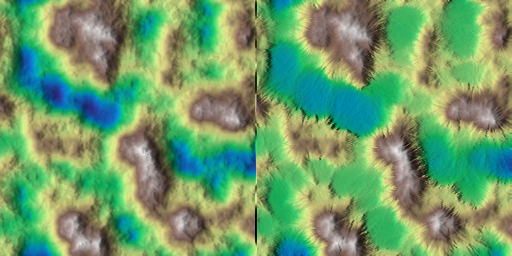
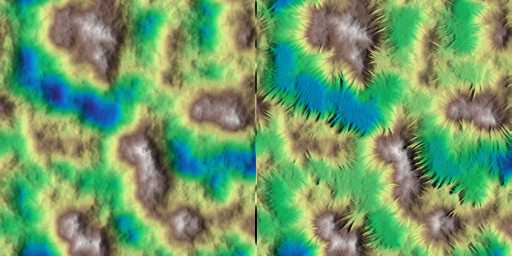
Swithc back to bilinear interpolation for hydrualic particle erosion

diff --git a/include/highmap/array.hpp b/include/highmap/array.hpp
@@ -11,6 +11,7 @@
 #pragma once
 
 #include <algorithm>
+#include <cmath>
 #include <iomanip>
 #include <iostream>
 #include <numeric>
@@ -226,6 +227,54 @@ public:
   }
 
   /**
+   * @brief Distribute a value 'amount' around the four cells (i, j), (i + 1,
+   * j), (i, j + 1), (i + 1, j + 1) by "reversing" the bilinear interpolation.
+   *
+   * @param i Index.
+   * @param j Index.
+   * @param u 'u' interpolation parameter, expected to be in [0, 1[.
+   * @param v 'v' interpolation parameter, expected to be in [0, 1[.
+   * @param amount Amount to be deposited.
+   */
+  inline void depose_amount_bilinear_at(int   i,
+                                        int   j,
+                                        float u,
+                                        float v,
+                                        float amount)
+  {
+    (*this)(i, j) += amount * (1 - u) * (1 - v);
+    (*this)(i + 1, j) += amount * u * (1 - v);
+    (*this)(i, j + 1) += amount * (1 - u) * v;
+    (*this)(i + 1, j + 1) += amount * u * v;
+  }
+
+  inline void depose_amount_kernel_bilinear_at(int   i,
+                                               int   j,
+                                               float u,
+                                               float v,
+                                               int   ir,
+                                               float amount)
+  {
+    Array kernel = Array({2 * ir + 1, 2 * ir + 1});
+
+    // compute kernel first
+    for (int p = -ir; p < ir + 1; p++)
+    {
+      for (int q = -ir; q < ir + 1; q++)
+      {
+        float x = (float)p - u;
+        float y = (float)q - v;
+        float r = std::max(0.f, 1.f - std::hypot(x, y));
+        kernel(p + ir, q + ir) = r;
+      }
+    }
+    kernel.normalize();
+
+    // perform deposition
+    this->depose_amount_kernel_at(i, j, kernel, amount);
+  }
+
+  /**
    * @brief Distribute a value 'amount' around the cell (i, j) using a
    * a 1D deposition kernel (applied to both direction).
    *
@@ -234,7 +283,7 @@ public:
    * @param kernel Deposition kernel (1D), must have an odd number of elements.
    * @param amount Amount to be deposited.
    */
-  inline void depose_amount_kernel(int i, int j, Array &kernel, float amount)
+  inline void depose_amount_kernel_at(int i, int j, Array &kernel, float amount)
   {
     const int ir = (kernel.shape[0] - 1) / 2;
     const int jr = (kernel.shape[1] - 1) / 2;
@@ -292,8 +341,8 @@ public:
    *
    * @param i Index, expected to be in [1, shape[0] - 2].
    * @param j Index, expected to be in [1, shape[1] - 2].
-   * @param x 'x' coordinate, expected to be in [i, i + 1].
-   * @param y 'y' coordinate, expected to be in [j, j + 1].
+   * @param u 'u' interpolation parameter, expected to be in [0, 1[.
+   * @param v 'v' interpolation parameter, expected to be in [0, 1[.
    * @return float
    */
   inline float get_gradient_x_bilinear_at(int i, int j, float u, float v)
@@ -319,8 +368,8 @@ public:
    *
    * @param i Index, expected to be in [1, shape[0] - 2].
    * @param j Index, expected to be in [1, shape[1] - 2].
-   * @param x 'x' coordinate, expected to be in [i, i + 1].
-   * @param y 'y' coordinate, expected to be in [j, j + 1].
+   * @param u 'u' interpolation parameter, expected to be in [0, 1[.
+   * @param v 'v' interpolation parameter, expected to be in [0, 1[.
    * @return float
    */
   inline float get_gradient_y_bilinear_at(int i, int j, float u, float v)
@@ -346,8 +395,8 @@ public:
    *
    * @param i Index, expected to be in [0, shape[0] - 2].
    * @param j Index, expected to be in [0, shape[1] - 2].
-   * @param x 'x' coordinate, expected to be in [i, i + 1].
-   * @param y 'y' coordinate, expected to be in [j, j + 1].
+   * @param u 'u' interpolation parameter, expected to be in [0, 1[.
+   * @param v 'v' interpolation parameter, expected to be in [0, 1[.
    * @return float
    */
   inline float get_value_bilinear_at(int i, int j, float u, float v)

diff --git a/src/erosion/hydraulic_particle.cpp b/src/erosion/hydraulic_particle.cpp
@@ -72,19 +72,22 @@ void hydraulic_particle(Array &z,
 
     float volume = VOLUME_INIT * moisture_map((int)x, (int)y);
 
-    int ix = (int)x;
-    int jy = (int)y;
+    int i_next = (int)x;
+    int j_next = (int)y;
 
     while (volume > VOLUME_MIN)
     {
-      int i = ix;
-      int j = jy;
+      int   i = i_next;
+      int   j = j_next;
+      float u = x - (float)i_next;
+      float v = y - (float)j_next;
+      float z_old = z.get_value_bilinear_at(i, j, u, v);
 
       // surface normal \nabla z = (-dz/dx, -dz/dy, 1), not normalized
       // since its norm is already very close to one, assuming 'z'
       // scales with unity
-      float nx = -z.get_gradient_x_at(i, j);
-      float ny = -z.get_gradient_y_at(i, j);
+      float nx = -z.get_gradient_x_bilinear_at(i, j, u, v);
+      float ny = -z.get_gradient_y_bilinear_at(i, j, u, v);
 
       if (approx_hypot(nx, ny) < GRADIENT_MIN)
         break;
@@ -107,33 +110,37 @@ void hydraulic_particle(Array &z,
       y += dt * vy;
 
       // perform erosion / deposition
-      ix = (int)x;
-      jy = (int)y;
+      i_next = (int)x;
+      j_next = (int)y;
 
-      if ((i != ix) or (j != jy))
-      {
-        if ((ix < 1) or (ix > ni - 2) or (jy < 1) or (jy > nj - 2))
-          break;
+      float u_next = x - (float)i_next;
+      float v_next = y - (float)j_next;
 
-        // particle sediment capacity
-        float dz = z(i, j) - z(ix, jy);
-        float sc = std::max(0.f, c_capacity * volume * vnorm * dz);
-        float delta_sc = dt * (sc - s);
-        float amount;
+      if ((i_next < 1) or (i_next > ni - 2) or (j_next < 1) or
+          (j_next > nj - 2))
+        break;
 
-        if (delta_sc > 0.f)
-          amount = c_erosion * delta_sc; // erosion
-        else
-          amount = c_deposition * delta_sc; // deposition
+      float z_next = z.get_value_bilinear_at(i_next, j_next, u_next, v_next);
 
-        s += amount;
+      // particle sediment capacity
+      float dz = z_old - z_next;
+      float sc = std::max(0.f, c_capacity * volume * vnorm * dz);
+      float delta_sc = dt * (sc - s);
+      float amount;
 
-        if (ir == 0)
-          z(i, j) -= amount; // pixel-based
-        else if ((i > ir) and (i < ni - ir - 1) and (j > ir) and
-                 (j < nj - ir - 1))
-          z.depose_amount_kernel(i, j, kernel, -amount); // kernel-based
-      }
+      if (delta_sc > 0.f)
+        amount = c_erosion * delta_sc; // erosion
+      else
+        amount = c_deposition * delta_sc; // deposition
+
+      s += amount;
+
+      if (ir == 0)
+        z.depose_amount_bilinear_at(i, j, u, v, -amount);
+      else if ((i > ir) and (i < ni - ir - 1) and (j > ir) and
+               (j < nj - ir - 1))
+        // kernel-based - VERY SLOW
+        z.depose_amount_kernel_bilinear_at(i, j, u, v, ir, -amount);
 
       volume *= (1 - dt * evap_rate);
     }

diff --git a/include/highmap/erosion.hpp b/include/highmap/erosion.hpp
@@ -119,7 +119,7 @@ void hydraulic_particle(Array &z,
                         int    nparticles,
                         int    seed,
                         int    c_radius = 0,
-                        float  c_capacity = 20.f,
+                        float  c_capacity = 10.f,
                         float  c_erosion = 0.05f,
                         float  c_deposition = 0.01f,
                         float  drag_rate = 0.01f,
@@ -129,7 +129,7 @@ void hydraulic_particle(Array &z,
                         int    nparticles,
                         int    seed,
                         int    c_radius = 0,
-                        float  c_capacity = 20.f,
+                        float  c_capacity = 10.f,
                         float  c_erosion = 0.05f,
                         float  c_deposition = 0.01f,
                         float  drag_rate = 0.01f,

diff --git a/examples/ex_hydraulic_particle/ex_hydraulic_particle.cpp b/examples/ex_hydraulic_particle/ex_hydraulic_particle.cpp
@@ -7,7 +7,7 @@ int main(void)
 {
   const std::vector<int>   shape = {256, 256};
   const std::vector<float> res = {4.f, 4.f};
-  int                      nparticles = 10000;
+  int                      nparticles = 50000;
   int                      seed = 1;
 
   hmap::Array z = hmap::fbm_perlin(shape, res, seed);
